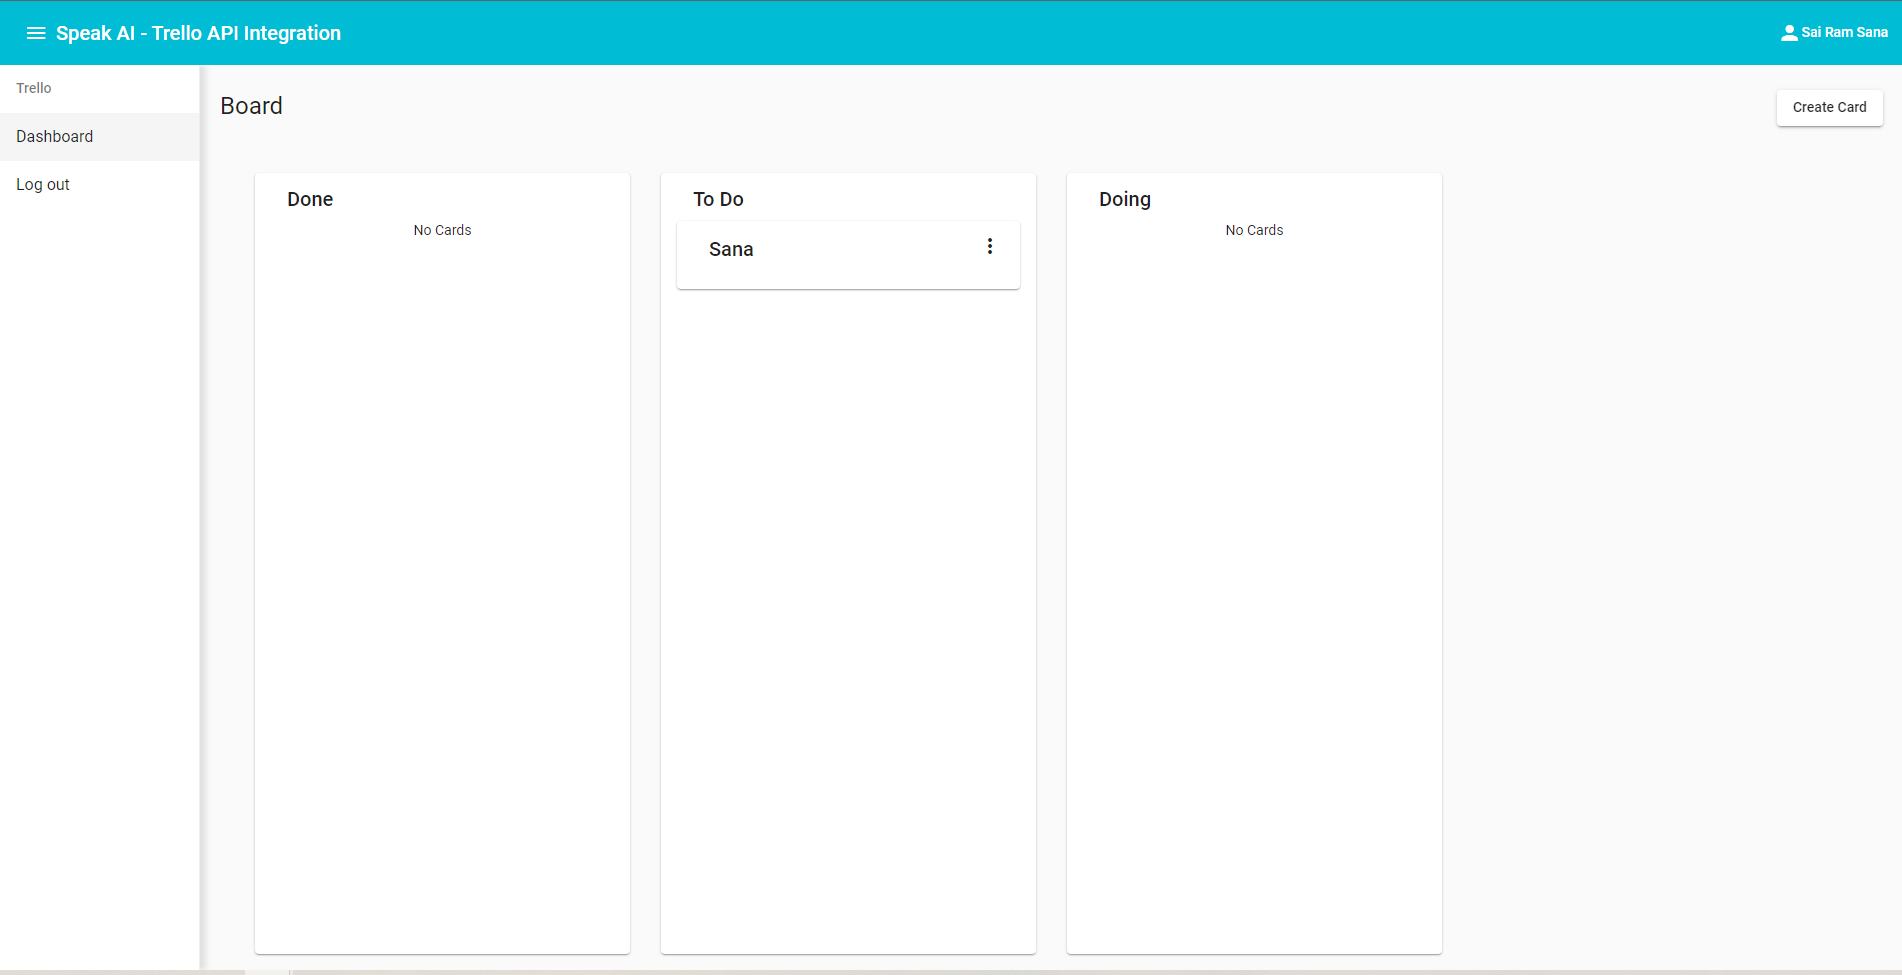
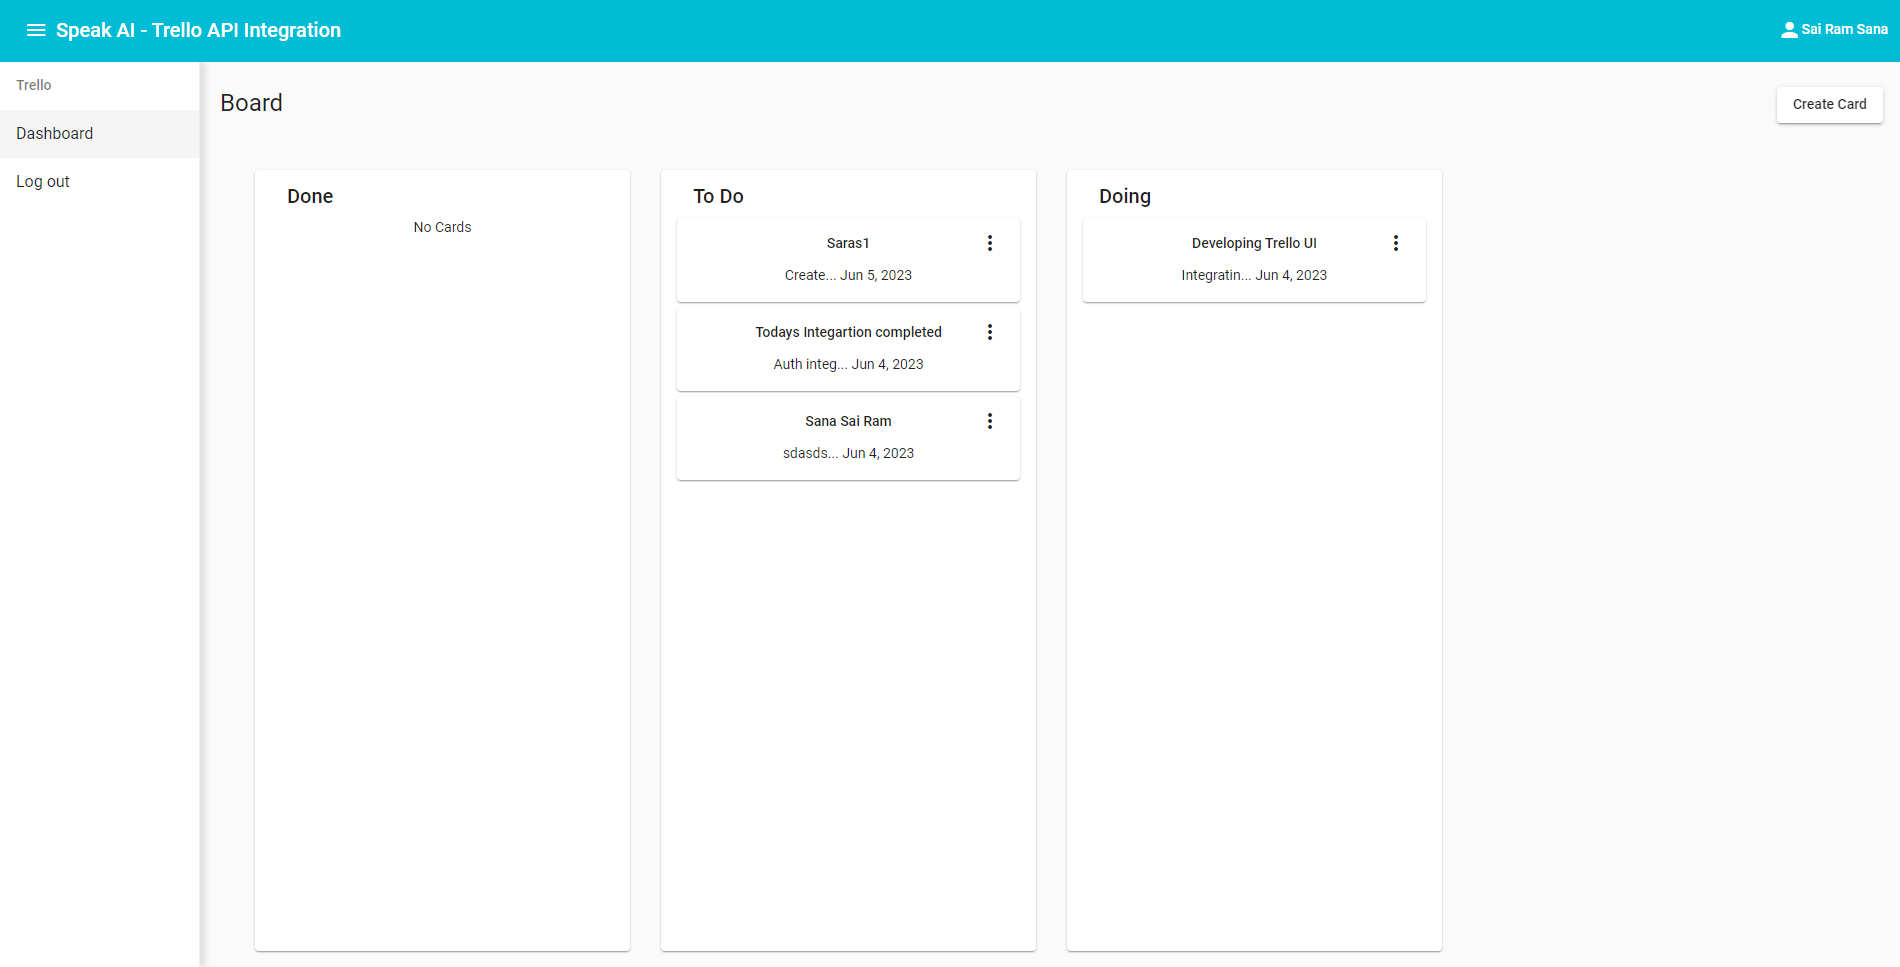
Integrated and developed Card CRUD operations

diff --git a/src/app/features/trellocard/trellocard.component.html b/src/app/features/trellocard/trellocard.component.html
@@ -1,32 +1,47 @@
 <div>
-    <h1 mat-dialog-title>Create a Card</h1>
+    <h1 mat-dialog-title>{{data?._id ? "Update a Card" : "Create a Card"}}</h1>
     <div mat-dialog-content>
         <form [formGroup]="createCard" (ngSubmit)="onSubmit()">
             <div class="form-align">
-                <mat-form-field appearance="legacy">
-                    <mat-label>Select List</mat-label>
-                    <mat-select formControlName="idList">
-                        <mat-option value="">None</mat-option>
-                        <mat-option *ngFor="let selList of objectKeys(ListOnBoard)"
-                            value="{{selList}}">{{ListOnBoard[selList]}}</mat-option>
-                    </mat-select>
-                </mat-form-field>
-                <mat-form-field appearance="legacy">
-                    <mat-label>Card Name</mat-label>
-                    <input matInput placeholder="Start Integratiion" formControlName="name">
-                    <mat-icon matSuffix>sentiment_very_satisfied</mat-icon>
-                    <!-- <mat-hint>Hint</mat-hint> -->
-                </mat-form-field>
-                <mat-form-field appearance="legacy">
-                    <mat-label>Description</mat-label>
-                    <textarea matInput formControlName="desc"></textarea>
-                </mat-form-field>
-                <button mat-raised-button color="primary" type="submit">Create</button>
+                <div class="form-input-align">
+                    <mat-form-field appearance="legacy">
+                        <mat-label>Select List</mat-label>
+                        <mat-select formControlName="idList">
+                            <mat-option value="">None</mat-option>
+                            <mat-option *ngFor="let selList of objectKeys(ListOnBoard)"
+                                value="{{selList}}">{{ListOnBoard[selList]}}</mat-option>
+                        </mat-select>
+                    </mat-form-field>
+                    <span class="text-format"
+                        *ngIf="!createCard.get('idList')?.valid && createCard.get('idList')?.touched"> Please select
+                        an option</span>
+                </div>
+                <div class="form-input-align">
+                    <mat-form-field appearance="legacy">
+                        <mat-label>Card Name</mat-label>
+                        <input matInput placeholder="Start Integratiion" formControlName="name">
+                        <mat-icon matSuffix>sentiment_very_satisfied</mat-icon>
+                    </mat-form-field>
+                    <span class="text-format"
+                        *ngIf="!createCard.get('name')?.valid && createCard.get('name')?.touched">Minimim 5
+                        characters</span>
+                </div>
+                <div class="form-input-align">
+                    <mat-form-field appearance="legacy">
+                        <mat-label>Description</mat-label>
+                        <textarea matInput formControlName="desc"></textarea>
+                    </mat-form-field>
+                    <span class="text-format" *ngIf="!createCard.get('desc')?.valid && createCard.get('desc')?.touched">
+                        Please enter description</span>
+                </div>
+
+                <div class="form-input-align">
+                    <button mat-raised-button color="primary" disabled="{{!createCard.valid}}" type="submit">{{data?._id
+                        ?
+                        "Update" : "Create"}}</button>
+                    <button mat-button (click)="onNoClick()">No Thanks</button>
+                </div>
             </div>
         </form>
-    </div>
-    <div mat-dialog-actions>
-        <button mat-button (click)="onNoClick()">No Thanks</button>
-        <!-- <button mat-button [mat-dialog-close]="data.animal" cdkFocusInitial>Ok</button> -->
     </div>
 </div>

diff --git a/src/app/features/trellocard/trellocard.component.ts b/src/app/features/trellocard/trellocard.component.ts
@@ -1,5 +1,5 @@
 import { Component, OnInit, Inject } from '@angular/core';
-import { FormControl, FormGroup } from '@angular/forms';
+import { FormControl, FormGroup, Validators } from '@angular/forms';
 import { MAT_DIALOG_DATA, MatDialog, MatDialogRef } from '@angular/material/dialog';
 import { UserServiceService } from 'src/app/service/user-service.service';
 
@@ -25,9 +25,12 @@ export class TrellocardComponent implements OnInit {
   constructor(public dialog: MatDialog, public dialogRef: MatDialogRef<TrellocardComponent>,
     @Inject(MAT_DIALOG_DATA) public data: any, private userService: UserServiceService) {
     this.createCard = new FormGroup({
-      'name': new FormControl(this.data?.name || null),
-      'desc': new FormControl(this.data?.desc || null),
-      'idList': new FormControl(this.data?.idList || null)
+      'name': new FormControl(this.data?.name || null, [
+        Validators.required,
+        Validators.minLength(4)
+      ]),
+      'desc': new FormControl(this.data?.desc || null, Validators.required),
+      'idList': new FormControl({ value: this.data?.idList || null, disabled: this.data?._id ? true : false }, Validators.required)
     })
   }
 
@@ -38,10 +41,17 @@ export class TrellocardComponent implements OnInit {
   }
 
   onSubmit(): void {
-    console.log(this.createCard)
-    this.userService.saveCardDetails(this.createCard.value).subscribe((res) => {
-      console.log(res);
-    })
+    if (this.data?._id) {
+      let updateData = { name: this.createCard.value.name, desc: this.createCard.value.desc }
+      this.userService.updateCardDetails(this.data._id, updateData).subscribe((res) => {
+        this.dialogRef.close()
+      })
+    } else {
+      this.userService.saveCardDetails(this.createCard.value).subscribe((res) => {
+        this.dialogRef.close()
+      })
+    }
+
   }
 
 

diff --git a/src/app/shared/dashboard/dashboard.component.html b/src/app/shared/dashboard/dashboard.component.html
@@ -14,19 +14,19 @@
           </mat-card-header>
           <mat-card-content class="dashboard-card-content">
             <div *ngIf="list?.cards.length > 0; else elseSpan">
-              <mat-card *ngFor="let card of list.cards" class="dashboard-cards-card">
-                <mat-card-header class="mat-body-strong">
-                  <mat-card-title class="mat-body-strong">
-                    {{card.name}}
+              <mat-card *ngFor="let card of list.cards" class="dashboard-cards-card" >
+                  <mat-card-content>
+                    <span class="text-format">{{card.name}}</span>
+                    <p></p>
+                    <span>{{card.desc  | slice:0:10}}...  </span> <span>{{card.dateLastActivity  | date: 'MMM d, y'}} </span>
                     <button mat-icon-button class="more-button" [matMenuTriggerFor]="menu" aria-label="Toggle menu">
                       <mat-icon>more_vert</mat-icon>
                     </button>
                     <mat-menu #menu="matMenu" xPosition="before">
-                      <button  mat-menu-item (click)="updateDialog(card)">Update</button>
+                      <button mat-menu-item (click)="updateDialog(card)">Update</button>
                       <button mat-menu-item>Remove</button>
                     </mat-menu>
-                  </mat-card-title>
-                </mat-card-header>
+                  </mat-card-content>
               </mat-card>
             </div>
             <ng-template #elseSpan> No Cards </ng-template>

diff --git a/src/app/service/user-service.service.ts b/src/app/service/user-service.service.ts
@@ -9,7 +9,7 @@ export class UserServiceService {
   constructor(private httpClient: HttpClient) { }
   login: boolean = false
   getLoginUserDetails = () => {
-    return this.httpClient.get(apiUrls.GETMEMBER,{withCredentials :true}).pipe((res) => {
+    return this.httpClient.get(apiUrls.GETMEMBER, { withCredentials: true }).pipe((res) => {
       this.login = true;
       console.log(res.toLocaleString)
       return res
@@ -17,15 +17,15 @@ export class UserServiceService {
   }
 
   getCardsDetails = () => {
-    return this.httpClient.get(apiUrls.CARDSCRUD,{withCredentials :true})
+    return this.httpClient.get(apiUrls.CARDSCRUD, { withCredentials: true })
   }
 
-  saveCardDetails = (data:any) => {
-    return this.httpClient.post(apiUrls.CARDSCRUD,data,{withCredentials :true})
+  saveCardDetails = (data: any) => {
+    return this.httpClient.post(apiUrls.CARDSCRUD, data, { withCredentials: true })
   }
 
-  updateCardDetails = (data:any) => {
-    return this.httpClient.post(apiUrls.CARDSCRUD,data,{withCredentials :true})
+  updateCardDetails = (id:string,data: any) => {
+    return this.httpClient.put(apiUrls.CARDSCRUD+"/"+id, data, { withCredentials: true })
   }
 
 

diff --git a/src/app/shared/dashboard/dashboard.component.ts b/src/app/shared/dashboard/dashboard.component.ts
@@ -19,6 +19,7 @@ export class DashboardComponent {
 
   ngOnInit(): void {
     this.userService.getCardsDetails().subscribe((res) => {
+
       this.cardsList = res;
     })
   }
@@ -31,6 +32,7 @@ export class DashboardComponent {
     });
 
     dialogRef.afterClosed().subscribe(result => {
+      this.cardsList = [];
       this.userService.getCardsDetails().subscribe((res) => {
         this.cardsList = res;
       })
@@ -43,7 +45,9 @@ export class DashboardComponent {
     });
 
     dialogRef.afterClosed().subscribe(result => {
+      this.cardsList = [];
       this.userService.getCardsDetails().subscribe((res) => {
+        console.log(res)
         this.cardsList = res;
       })
     });

diff --git a/src/app/shared/layout/layout.component.html b/src/app/shared/layout/layout.component.html
@@ -15,9 +15,6 @@
 
     <span class="navbar-spacer"></span>
 
-  
-
-
     <button mat-button [matMenuTriggerFor]="userMenu">
       <mat-icon>person</mat-icon>
       <span fxShow fxHide.xs>
@@ -49,14 +46,11 @@
         <h3 mat-subheader>Trello</h3>
 
         <a mat-list-item [routerLink]="['/dashboard/default']" routerLinkActive="active">
-          <!-- <mat-icon mat-list-icon>
-            dashboard
-          </mat-icon> -->
+        
           <p mat-line> Dashboard </p>
         </a>
 
         <a mat-list-item [routerLink]="['/login']">
-          <!-- <mat-icon mat-list-icon>exit_to_app</mat-icon> -->
           <p mat-line> Log out </p>
         </a>
 

diff --git a/src/app/features/trellocard/trellocard.component.scss b/src/app/features/trellocard/trellocard.component.scss
@@ -1,0 +1,17 @@
+.form-align {
+    display: flex;
+    flex-direction: column;
+
+}
+
+.form-input-align {
+    display: flex;
+    flex-direction: column;
+    margin-bottom: 5px ;
+
+    .text-format {
+        font-size: 12px;
+        font-weight: 400;
+        color: rgb(247, 108, 108);
+    }
+}

diff --git a/src/app/shared/dashboard/dashboard.component.scss b/src/app/shared/dashboard/dashboard.component.scss
@@ -26,3 +26,10 @@
   justify-content: space-between;
 }
 
+.dashboard-cards-card{
+  margin-bottom: 5px;
+}
+
+.text-format{
+  font-weight: 500;
+}
